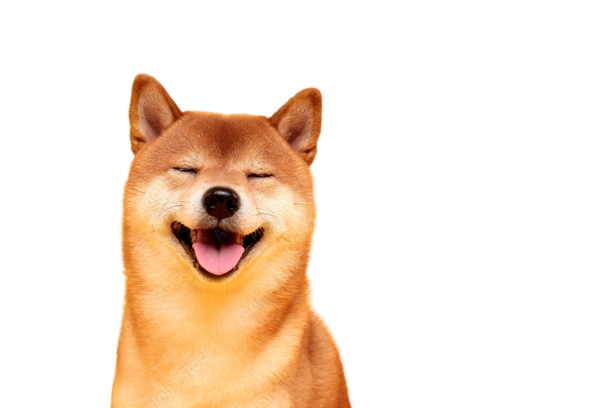
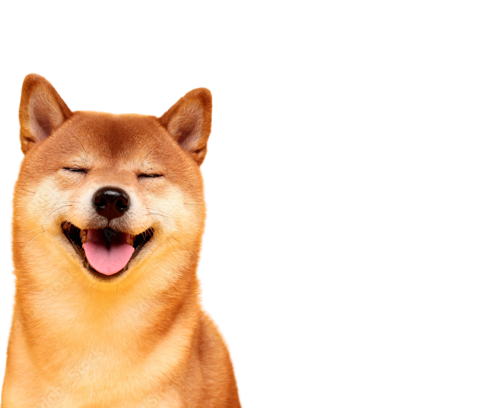
狗狗位置靠左下 添加輸入欄位

diff --git a/demo/src/main/java/com/example/login.java b/demo/src/main/java/com/example/login.java
@@ -3,23 +3,26 @@ package com.example;
 import java.awt.BorderLayout;
 import java.awt.Container;
 import java.awt.FlowLayout;
+import java.awt.Font;
 import java.awt.GridLayout;
 import java.awt.Image;
 import java.awt.Label;
 import java.awt.LayoutManager;
 import java.awt.Toolkit;
 import java.awt.Dimension;
+import java.awt.Color;
 
 import javax.swing.ImageIcon;
 import javax.swing.JFrame;
 import javax.swing.JLabel;
 import javax.swing.JOptionPane;
 import javax.swing.JPanel;
+import javax.swing.JTextField;
 
 public class login {
     private static JFrame windowFrame = new JFrame("更改Swing視窗的預設圖示");
     //登入的背景圖片
-    private static ImageIcon dogPicture=new ImageIcon("demo\\src\\main\\java\\com\\example\\yellow_dog.jpeg");
+    private static ImageIcon dogPicture=new ImageIcon("demo\\src\\main\\java\\com\\example\\white_dog2.png");
     private static JLabel dog=new JLabel(dogPicture);
     private static Container container = windowFrame.getContentPane();
     //取得螢幕大小
@@ -30,7 +33,8 @@ public class login {
     private static void createWindow() {    
         //設定視窗大小為螢幕的2/3
         windowFrame.setSize(dimension.width*2/3, dimension.height*2/3);
-        
+        //設定背景顏色
+        windowFrame.getContentPane().setBackground( Color.WHITE );
         container.setLayout(new BorderLayout());
         //設定關閉可以關掉程式
         windowFrame.setDefaultCloseOperation(JFrame.EXIT_ON_CLOSE);
@@ -49,7 +53,7 @@ public class login {
         createUI(windowFrame);
         //顯示圖片
         container.add(dog,BorderLayout.CENTER);
-        windowFrame.setSize(750, 400);      
+        //windowFrame.setSize(750, 400);      
 
         windowFrame.setLocationRelativeTo(null);  
         windowFrame.setVisible(true);
@@ -58,17 +62,42 @@ public class login {
     private static void putdog(JFrame windowFrame){
         int w=dogPicture.getIconWidth();
         int h=dogPicture.getIconHeight();
-        dogPicture.setImage(dogPicture.getImage().getScaledInstance(w/2, h/2, Image.SCALE_DEFAULT));
+        //縮小狗狗
+        dogPicture.setImage(dogPicture.getImage().getScaledInstance((int)(0.65*w), (int)(0.65*h), Image.SCALE_DEFAULT));
+        //視窗下緣和對齊
+        dog.setVerticalAlignment(JLabel.BOTTOM);
+        //視窗左邊和對齊
+        dog.setHorizontalAlignment(JLabel.LEFT);
         // dog.setLayout(new BorderLayout());
         // dog.setIcon(dogPicture);
-        dog.setSize(w/2, h/2);
+        //dog.setSize(w/2, h/2);
+
     }
 
     private static void createUI(JFrame windowFrame){
-        int w=dogPicture.getIconWidth();
-        int h=dogPicture.getIconHeight();
-        JLabel label=new JLabel("Login");
+        //int w=dogPicture.getIconWidth();
+        //int h=dogPicture.getIconHeight();
+        //JLabel label=new JLabel("Login");
+        JLabel label1=new JLabel("Login");
+        JLabel label2=new JLabel("Account:");
+        JLabel label3=new JLabel("Password:");
+        JTextField text1=new JTextField(null, "Anter your account", 0);//帳號輸入
+        JTextField text2=new JTextField(null, "Anter your password", 0);//密碼輸入
         // label.setSize(w/2, h/2);
-        dog.add(label,BorderLayout.SOUTH);
+        label1.setBounds(620, 90,200,100);
+        label2.setBounds(450, 150,90,90);
+        text1.setBounds(540, 180, 319, 30);
+        label3.setBounds(450, 200,200,100);
+        text2.setBounds(560, 235, 300, 30);
+
+        label1.setFont((new Font("",Font.ITALIC,35)));
+        label2.setFont((new Font("",Font.ITALIC,20)));
+        label3.setFont((new Font("",Font.ITALIC,20)));
+        windowFrame.add(label1);
+        windowFrame.add(label2);
+        windowFrame.add(text1);
+        windowFrame.add(label3);
+        windowFrame.add(text2);
+        //windowFrame.add(text,BorderLayout.SOUTH);
     }
 }
